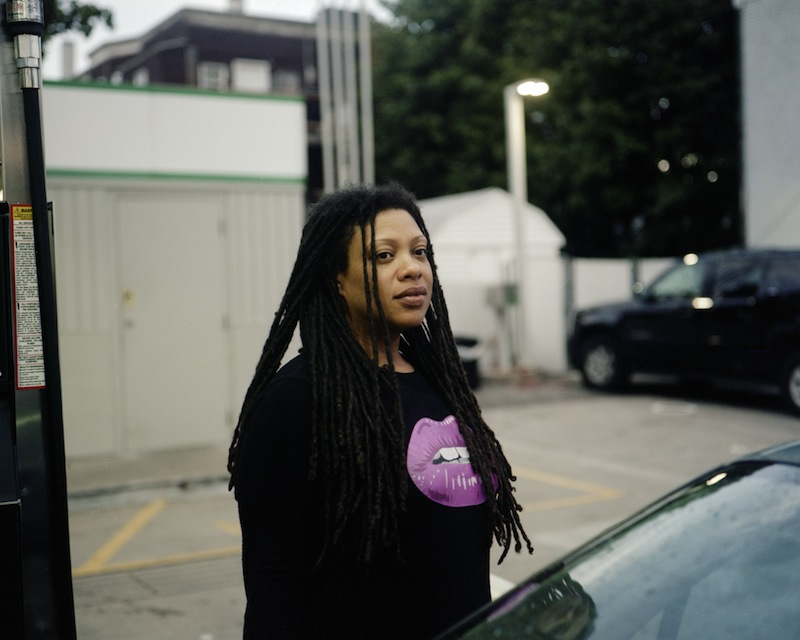
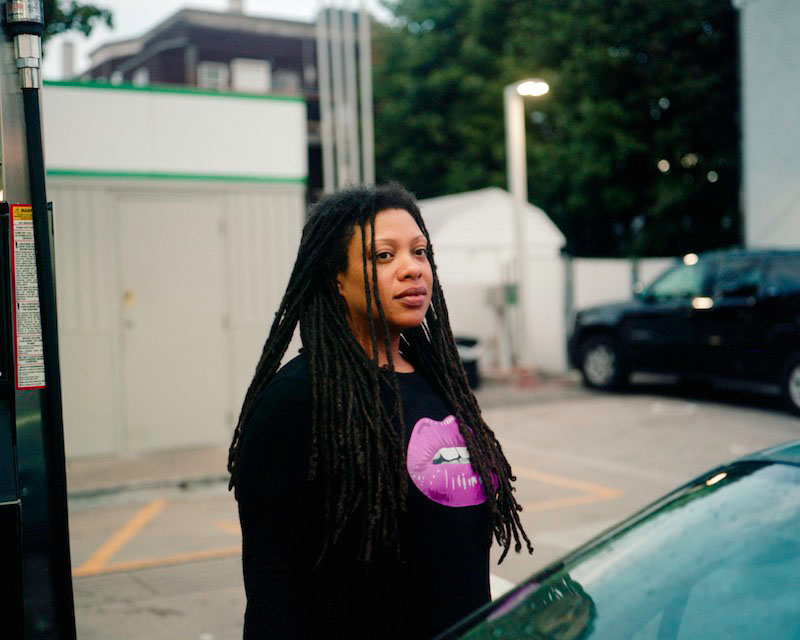
changed color space and zapped gremlins

diff --git a/inner6.html b/inner6.html
@@ -4,13 +4,13 @@
 	<title>Alex Pong</title>
 	<meta charset="utf-8">
 	<meta name="author" content="pixelhint.com">
-	<meta name="description" content="Magnetic is a stunning responsive HTML5/CSS3 photography/portfolio website  template"/>
+	<meta name="description" content="Magnetic is a stunning responsive HTML5/CSS3 photography/portfolio website	template"/>
 	<meta name="viewport" content="width=device-width, initial-scale=1.0, minimum-scale=1.0" />
 	<link href='http://fonts.googleapis.com/css?family=Lato:400,700' rel='stylesheet' type='text/css'>
 	<link rel="stylesheet" type="text/css" href="css/reset.css">
 	<link rel="stylesheet" type="text/css" href="css/main.css">
-    <script type="text/javascript" src="js/jquery.js"></script>
-    <script type="text/javascript" src="js/main.js"></script>
+		<script type="text/javascript" src="js/jquery.js"></script>
+		<script type="text/javascript" src="js/main.js"></script>
 </head>
 <body>
 
@@ -33,7 +33,7 @@
 			</ul><!-- end social -->
 
 			<div class="rights hidden">
-				<p>Copyright © 2014 magnetic.</p>
+				<p>Copyright  2014 magnetic.</p>
 				<p>Template by <a href="">Pixelhint.com</a></p>
 			</div><!-- end rights -->
 		</div ><!-- end footer -->
@@ -41,7 +41,7 @@
 
 	<section class="main clearfix">
 
-		<section class="top">	
+		<section class="top"> 
 			<div class="wrapper content_header clearfix">
 				<div class="work_nav">
 							
@@ -60,7 +60,6 @@
 				<p>
 				 There's much more to the world than I ever could have dreamed. 
 				</p>
-				<i>China</i>
 				<img src="img/6/1.jpg" class="media" alt="" />
 				<img src="img/6/2.jpg" class="media" alt="" />
 				<img src="img/6/3.jpg" class="media" alt="" />

diff --git a/inner2.html b/inner2.html
@@ -61,19 +61,18 @@
 				<p>
 				I visited San Francisco for three days before flying out to Beijing for a summer internship. It was my first time visiting without parents, and I was lucky to have the chance to take some pictures of my grandpa and grand uncle. 
 				</p>
-				<img src="img/2/1.jpg" class="media" alt="" />
-				<img src="img/2/2.jpg" class="media" alt="" />
-				<img src="img/2/3.jpg" class="media" alt="" />
-				<img src="img/2/4.jpg" class="media" alt="" />
-				<img src="img/2/5.jpg" class="media" alt="" />
-				<img src="img/2/6.jpg" class="media" alt="" />
-				<img src="img/2/7.jpg" class="media" alt="" />
-				<img src="img/2/8.jpg" class="media" alt="" />
-				<img src="img/2/9.jpg" class="media" alt="" />
-				<img src="img/2/10.jpg" class="media" alt="" />
-				<img src="img/2/11.jpg" class="media" alt="" />
-				<img src="img/2/12.jpg" class="media" alt="" />
-
+				<img src="img/2/1.jpg" class="media" alt=""/>
+				<img src="img/2/2.jpg" class="media" alt=""/>
+				<img src="img/2/3.jpg" class="media" alt=""/>
+				<img src="img/2/4.jpg" class="media" alt=""/>
+				<img src="img/2/5.jpg" class="media" alt=""/>
+				<img src="img/2/6.jpg" class="media" alt=""/>
+				<img src="img/2/7.jpg" class="media" alt=""/>
+				<img src="img/2/8.jpg" class="media" alt=""/>
+				<img src="img/2/9.jpg" class="media" alt=""/>
+				<img src="img/2/10.jpg" class="media" alt=""/>
+				<img src="img/2/11.jpg" class="media" alt=""/>
+				<img src="img/2/12.jpg" class="media" alt=""/>
 			</div><!-- end content -->
 		</section>
 	</section><!-- end main -->

diff --git a/inner4.html b/inner4.html
@@ -4,13 +4,13 @@
 	<title>Alex Pong</title>
 	<meta charset="utf-8">
 	<meta name="author" content="pixelhint.com">
-	<meta name="description" content="Magnetic is a stunning responsive HTML5/CSS3 photography/portfolio website  template"/>
+	<meta name="description" content="Magnetic is a stunning responsive HTML5/CSS3 photography/portfolio website	template"/>
 	<meta name="viewport" content="width=device-width, initial-scale=1.0, minimum-scale=1.0" />
 	<link href='http://fonts.googleapis.com/css?family=Lato:400,700' rel='stylesheet' type='text/css'>
 	<link rel="stylesheet" type="text/css" href="css/reset.css">
 	<link rel="stylesheet" type="text/css" href="css/main.css">
-    <script type="text/javascript" src="js/jquery.js"></script>
-    <script type="text/javascript" src="js/main.js"></script>
+		<script type="text/javascript" src="js/jquery.js"></script>
+		<script type="text/javascript" src="js/main.js"></script>
 </head>
 <body>
 
@@ -33,7 +33,7 @@
 			</ul><!-- end social -->
 
 			<div class="rights hidden">
-				<p>Copyright © 2014 magnetic.</p>
+				<p>Copyright  2014 magnetic.</p>
 				<p>Template by <a href="">Pixelhint.com</a></p>
 			</div><!-- end rights -->
 		</div ><!-- end footer -->
@@ -41,7 +41,7 @@
 
 	<section class="main clearfix">
 
-		<section class="top">	
+		<section class="top"> 
 			<div class="wrapper content_header clearfix">
 				<div class="work_nav">
 							
